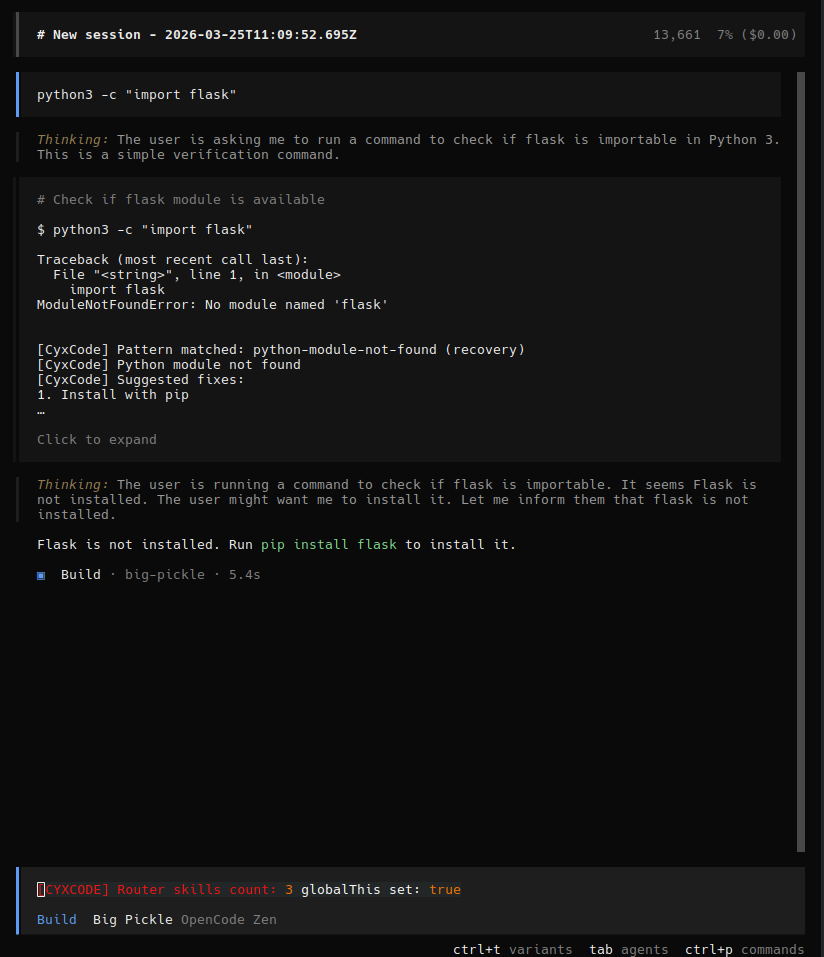
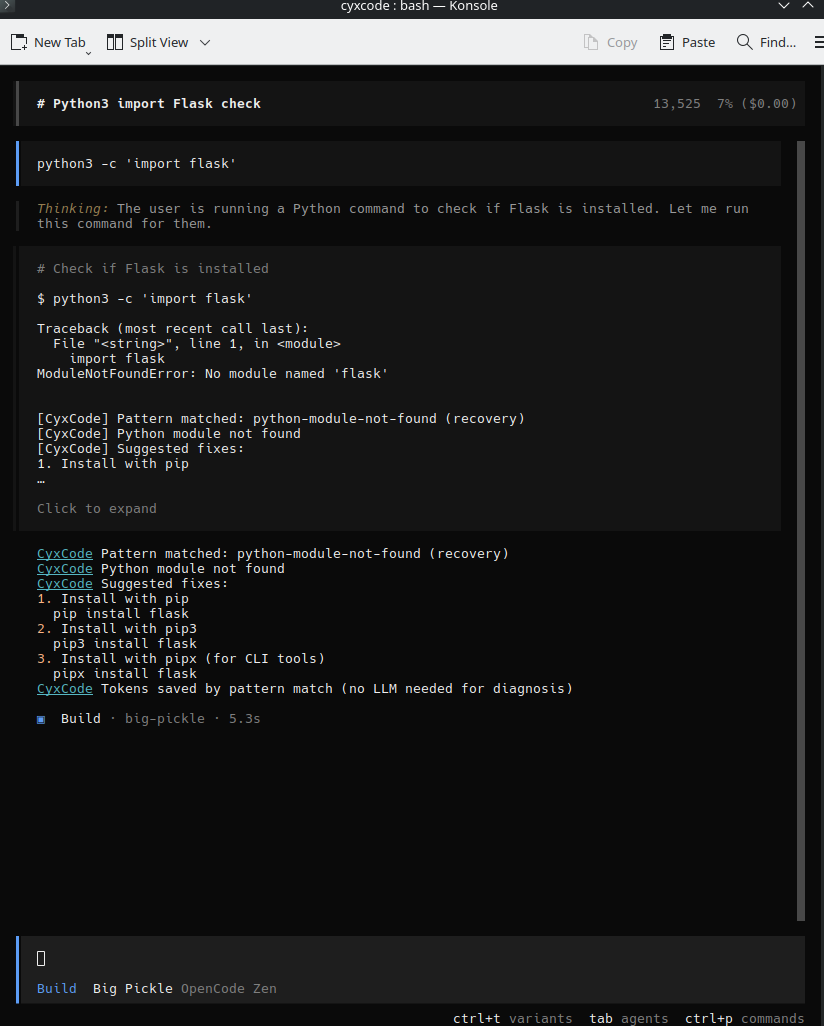
feat: short-circuit LLM when CyxCode pattern matches
- Skip LLM Call #2 when pattern matches (prompt.ts outer loop intercept)
- Add cyxcodeMatched metadata flag to bash tool results
- Add CyxCode pattern matching to shell mode (! prefix) for zero-token errors
- Add CYXCODE_SHORT_CIRCUIT flag (on by default, disable with env var)
- Add capture substitution ($1 -> actual module name) in fix commands
- Prevent double initialization of CyxCode router
- Add /diagnose command using cheap model for unmatched errors
- Add error response guidelines to AGENTS.md
- Update README with shell mode docs and screenshots

diff --git a/packages/opencode/src/session/prompt.ts b/packages/opencode/src/session/prompt.ts
@@ -38,6 +38,7 @@ import { pathToFileURL, fileURLToPath } from "url"
 import { ConfigMarkdown } from "../config/markdown"
 import { SessionSummary } from "./summary"
 import { NamedError } from "@cyxcode/util/error"
+import { getRouter, initCyxCode } from "../cyxcode"
 import { fn } from "@/util/fn"
 import { SessionProcessor } from "./processor"
 import { TaskTool } from "@/tool/task"
@@ -742,6 +743,36 @@ export namespace SessionPrompt {
           overflow: !processor.message.finish,
         })
       }
+
+      // CyxCode short-circuit: skip LLM when pattern matched
+      if (Flag.CYXCODE_SHORT_CIRCUIT && result === "continue") {
+        const parts = await MessageV2.parts(processor.message.id)
+        const cyxPart = parts.find(
+          (p) => p.type === "tool"
+              && p.state.status === "completed"
+              && p.state.metadata?.cyxcodeMatched
+        )
+        if (cyxPart && cyxPart.type === "tool" && cyxPart.state.status === "completed") {
+          const output = cyxPart.state.output
+          const idx = output.indexOf("[CyxCode]")
+          const text = idx >= 0 ? output.slice(idx) : "Error diagnosed by CyxCode."
+
+          await Session.updatePart({
+            id: PartID.ascending(),
+            messageID: processor.message.id,
+            sessionID,
+            type: "text",
+            text,
+            synthetic: true,
+            time: { start: Date.now(), end: Date.now() },
+          })
+          processor.message.finish = "stop"
+          processor.message.time.completed = Date.now()
+          await Session.updateMessage(processor.message)
+          break
+        }
+      }
+
       continue
     }
     SessionCompaction.prune({ sessionID })
@@ -1792,6 +1823,37 @@ NOTE: At any point in time through this workflow you should feel free to ask the
     if (aborted) {
       output += "\n\n" + ["<metadata>", "User aborted the command", "</metadata>"].join("\n")
     }
+
+    // CyxCode: Pattern-based error recovery for shell commands (zero AI tokens)
+    let cyxMatched = false
+    if (proc.exitCode !== 0 && proc.exitCode !== null && !aborted) {
+      initCyxCode()
+      const router = getRouter()
+      const matches = router.findMatching(output)
+      if (matches.length > 0) {
+        const best = matches[0]
+        const fixes = best.match.pattern.fixes
+        const captures = best.match.captures
+        const sub = (s: string) => {
+          let r = s
+          for (let j = 0; j < captures.length; j++) r = r.replace(new RegExp("\\$" + (j + 1), "g"), captures[j])
+          return r
+        }
+        const fixLines = fixes.map((f, i) => {
+          const cmd = f.command ? "  " + sub(f.command) : "  (manual)"
+          return (i + 1) + ". " + f.description + "\n" + cmd
+        }).join("\n")
+
+        output += "\n\n[CyxCode] Pattern matched: " + best.match.pattern.id + " (" + best.skill.name + ")\n"
+        output += "[CyxCode] " + best.match.pattern.description + "\n"
+        output += "[CyxCode] Suggested fixes:\n" + fixLines + "\n"
+        output += "[CyxCode] Tokens saved by pattern match (no LLM needed for diagnosis)\n"
+
+        cyxMatched = true
+        router.recordMatch(best.skill.name)
+      }
+    }
+
     msg.time.completed = Date.now()
     await Session.updateMessage(msg)
     if (part.state.status === "running") {
@@ -1806,6 +1868,7 @@ NOTE: At any point in time through this workflow you should feel free to ask the
         metadata: {
           output,
           description: "",
+          cyxcodeMatched: cyxMatched,
         },
         output,
       }

diff --git a/packages/opencode/src/tool/bash.ts b/packages/opencode/src/tool/bash.ts
@@ -261,6 +261,7 @@ export const BashTool = Tool.define("bash", async () => {
       }
 
       // CyxCode: Pattern-based error recovery
+      let cyxMatched = false
       if (proc.exitCode !== 0 && proc.exitCode !== null) {
         const router = getRouter()
         if (Flag.CYXCODE_DEBUG) console.error("[CYXCODE] Router skills count:", router.all().length, "globalThis set:", !!(globalThis as any).__cyxcode_router)
@@ -268,8 +269,14 @@ export const BashTool = Tool.define("bash", async () => {
         if (matches.length > 0) {
           const best = matches[0]
           const fixes = best.match.pattern.fixes
+          const captures = best.match.captures
+          const sub = (s: string) => {
+            let r = s
+            for (let j = 0; j < captures.length; j++) r = r.replace(new RegExp("\\$" + (j + 1), "g"), captures[j])
+            return r
+          }
           const fixLines = fixes.map((f, i) => {
-            const cmd = f.command ? "  " + f.command : "  (manual)"
+            const cmd = f.command ? "  " + sub(f.command) : "  (manual)"
             return (i + 1) + ". " + f.description + "\n" + cmd
           }).join("\n")
 
@@ -278,6 +285,7 @@ export const BashTool = Tool.define("bash", async () => {
           output += "[CyxCode] Suggested fixes:\n" + fixLines + "\n"
           output += "[CyxCode] Tokens saved by pattern match (no LLM needed for diagnosis)\n"
 
+          cyxMatched = true
           getRouter().recordMatch(best.skill.name)
           log.info("cyxcode pattern matched", {
             pattern: best.match.pattern.id,
@@ -295,6 +303,7 @@ export const BashTool = Tool.define("bash", async () => {
           output: output.length > MAX_METADATA_LENGTH ? output.slice(0, MAX_METADATA_LENGTH) + "\n\n..." : output,
           exit: proc.exitCode,
           description: params.description,
+          cyxcodeMatched: cyxMatched,
         },
         output,
       }

diff --git a/packages/opencode/src/cyxcode/index.ts b/packages/opencode/src/cyxcode/index.ts
@@ -26,20 +26,15 @@ import { securitySkill } from "./skills/security"
 import { devopsSkill } from "./skills/devops"
 
 export function initCyxCode() {
+  // Prevent double initialization
+  if ((globalThis as any).__cyxcode_router) return (globalThis as any).__cyxcode_router as typeof SkillRouter
+
   SkillRouter.register(recoverySkill)
   SkillRouter.register(securitySkill)
   SkillRouter.register(devopsSkill)
 
   // Store on globalThis to avoid module duplication issues with Bun conditions
   ;(globalThis as any).__cyxcode_router = SkillRouter
-
-  const stats = SkillRouter.stats()
-  const categories = Object.entries(stats.byCategory)
-    .map(([k, v]) => k + "(" + v + ")")
-    .join(", ")
-
-  console.log("[CyxCode] Initialized with " + stats.totalPatterns + " patterns across " + stats.totalSkills + " skills")
-  console.log("[CyxCode] Categories: " + categories)
 
   return SkillRouter
 }

diff --git a/packages/opencode/src/flag/flag.ts b/packages/opencode/src/flag/flag.ts
@@ -41,6 +41,7 @@ export namespace Flag {
   export const CYXCODE_SERVER_USERNAME = process.env["CYXCODE_SERVER_USERNAME"]
   export const CYXCODE_ENABLE_QUESTION_TOOL = truthy("CYXCODE_ENABLE_QUESTION_TOOL")
   export const CYXCODE_DEBUG = truthy("CYXCODE_DEBUG")
+  export const CYXCODE_SHORT_CIRCUIT = !falsy("CYXCODE_SHORT_CIRCUIT")
 
   // Experimental
   export const CYXCODE_EXPERIMENTAL = truthy("CYXCODE_EXPERIMENTAL")

diff --git a/README.md b/README.md
@@ -41,9 +41,34 @@ CyxCode:                      Every error -> Pattern check -> match? -> FREE fix
                                                            -> no match? -> LLM fallback
 ```
 
+### Two Modes: Zero Tokens or Reduced Tokens
+
+**Shell mode (`!` prefix) — Pattern first, zero tokens:**
+
+![CyxCode Shell Mode - Zero Tokens](packages/web/src/assets/lander/screenshot-cyxcode-shell.png)
+
+```
+!python3 -c 'import flask'
+  -> Command runs directly (no AI involved)
+  -> CyxCode pattern matches
+  -> Fix displayed instantly
+  -> Total tokens: ZERO
+```
+
+**Normal mode — AI decides, pattern short-circuits:**
+```
+python3 -c 'import flask'
+  -> AI thinks "let me run this" (LLM Call #1, unavoidable)
+  -> Command runs, CyxCode matches
+  -> LLM Call #2 SKIPPED (short-circuit)
+  -> Tokens saved: ~800-1600 per error
+```
+
+Use `!` prefix when you know you're running a command. The AI is bypassed entirely and CyxCode handles errors at zero cost.
+
 ### Screenshot: Pattern Matching in Action
 
-The screenshot above shows CyxCode matching a Python `ModuleNotFoundError` in real time. Notice the `[CyxCode]` block in the output — that's the pattern match providing an instant fix (`pip install flask`) before the AI even needs to analyze the error. The AI then simply relays the suggestion instead of burning tokens to diagnose it.
+The screenshot above shows CyxCode's short-circuit in action. A `python3 -c 'import flask'` command fails with `ModuleNotFoundError`. CyxCode matches the `python-module-not-found` pattern and displays the fix (`pip install flask`, `pip3 install flask`, `pipx install flask`) **directly** — the LLM is completely skipped on the return trip. Notice: no second "Thinking:" block, cost stays at **$0.00**, and the response appears instantly.
 
 ### Agents
 
@@ -135,27 +160,27 @@ This is a conservative estimate. In practice, the LLM often needs multiple turns
 
 ## How to Tell Pattern Match vs AI
 
-When a command fails in CyxCode, look for the `[CyxCode]` prefix in the output. This is how you know a pattern matched instead of the AI doing the work.
+When a command fails in CyxCode, look for the `[CyxCode]` prefix in the response. This means a pattern matched and the **LLM was completely skipped** — zero tokens burned on the return trip.
 
-### Pattern matched (free, zero tokens):
+### Pattern matched (free, LLM skipped):
 
 ```
-$ node -e "require('fakemodule')"
-Error: Cannot find module 'fakemodule'
+$ python3 -c 'import flask'
+ModuleNotFoundError: No module named 'flask'
 
-[CyxCode] Pattern matched: node-module-not-found (recovery)
-[CyxCode] Node.js module not found
+[CyxCode] Pattern matched: python-module-not-found (recovery)
+[CyxCode] Python module not found
 [CyxCode] Suggested fixes:
-  1. Install missing module with npm
-     npm install fakemodule
-  2. Install missing module with yarn
-     yarn add fakemodule
-  3. Install missing module with pnpm
-     pnpm add fakemodule
-  4. Install missing module with bun
-     bun add fakemodule
+1. Install with pip
+  pip install flask
+2. Install with pip3
+  pip3 install flask
+3. Install with pipx (for CLI tools)
+  pipx install flask
 [CyxCode] Tokens saved by pattern match (no LLM needed for diagnosis)
 ```
+
+No "Thinking:" block on the response. No AI analysis. Cost: **$0.00**.
 
 ### No pattern match (AI handles it, costs tokens):
 
@@ -166,7 +191,7 @@ Error: unexpected configuration in /etc/something.conf
 (no [CyxCode] lines — the AI analyzes this and responds normally)
 ```
 
-**Rule of thumb**: `[CyxCode]` visible = free fix. No `[CyxCode]` = AI handled it.
+**Rule of thumb**: `[CyxCode]` visible = free fix, LLM skipped. No `[CyxCode]` = AI handled it.
 
 ---
 
@@ -175,45 +200,57 @@ Error: unexpected configuration in /etc/something.conf
 Here's the full lifecycle of an error in CyxCode:
 
 ```
-1. User types a command in the TUI
+1. User types a command (e.g. python3 -c 'import flask')
                 |
                 v
-2. Bash tool executes the command
+2. LLM CALL #1 (unavoidable)
+   AI thinks: "Let me run this command for them"
+   AI calls the bash tool
+   (This is the "Thinking:" you see in the screenshot)
+                |
+                v
+3. Bash tool executes the command
    (src/tool/bash.ts)
                 |
                 v
-3. Command exits with non-zero code?
-   - No  -> return output normally
-   - Yes -> continue to step 4
+4. Command exits with non-zero code?
+   - No  -> return output normally to LLM
+   - Yes -> continue to step 5
                 |
                 v
-4. SkillRouter.findMatching(output) called
+5. CYXCODE INTERCEPTS (before AI sees the error)
+   SkillRouter.findMatching(output) called
    (src/cyxcode/router.ts)
                 |
                 v
-5. Router iterates all 3 skills:
+6. Router checks all 136 patterns across 3 skills:
    - Recovery (51 patterns: node, git, build, docker, python, system)
    - Security (39 patterns: ssl, auth, ssh, network, scan)
    - DevOps   (46 patterns: kubernetes, terraform, cicd, cloud, ansible)
                 |
                 v
-6. Each skill runs BaseSkill.match(error)
-   (src/cyxcode/base-skill.ts)
-   - Tests each pattern's regex against the error output
-   - If match: extracts captures ($1, $2, etc.)
-   - Returns PatternMatch with pattern, captures, extracted vars
+7. Pattern matched?
                 |
-                v
-7. Match found?
-   - Yes -> Append [CyxCode] lines with fix suggestions to output
-            SkillRouter.recordMatch() for stats
-   - No  -> SkillRouter.recordMiss(), output passes through unchanged
-                |
-                v
-8. Output returned to the LLM
-   - With [CyxCode]: LLM sees pre-diagnosed fix, minimal token use
-   - Without: LLM analyzes error normally (full token cost)
+       +--------+--------+
+       |                  |
+      YES                 NO
+       |                  |
+       v                  v
+8a. SHORT-CIRCUIT       8b. FALL THROUGH
+    - Append [CyxCode]     - Output passes to LLM
+      fix to output         - LLM CALL #2 happens
+    - Set cyxcodeMatched    - AI analyzes the error
+      = true                - AI burns tokens
+    - prompt.ts detects     - Normal response
+      the flag
+    - Inject fix text
+      directly as response
+    - SKIP LLM CALL #2
+    - Zero tokens burned
+    - $0.00 cost
 ```
+
+**Key insight**: The first "Thinking:" you see in the screenshot is LLM Call #1 (the AI deciding to run the command). This is unavoidable. What CyxCode eliminates is **LLM Call #2** — where the AI would normally read the error output, think about it, and generate a diagnosis. For matched patterns, that second call never happens.
 
 ### Architecture
 

diff --git a/AGENTS.md b/AGENTS.md
@@ -4,6 +4,13 @@
 - Local `main` ref may not exist; use `dev` or `origin/dev` for diffs.
 - Prefer automation: execute requested actions without confirmation unless blocked by missing info or safety/irreversibility.
 
+## Error Response Guidelines
+
+- When a bash command fails, state the problem and fix in 1-2 lines
+- Do NOT repeat the error output back to the user
+- Do NOT explain what the command was supposed to do
+- If `[CyxCode]` is in the tool output, just relay the fix — do not re-analyze the error
+
 ## Style Guide
 
 ### General Principles

diff --git a/.opencode/command/diagnose.md b/.opencode/command/diagnose.md
@@ -1,0 +1,9 @@
+---
+description: Quick error diagnosis using a lightweight model
+model: anthropic/claude-3-5-haiku-latest
+subtask: true
+---
+
+Look at the most recent bash tool output that failed.
+State the problem and fix in 2-3 lines max.
+Show the corrected command if applicable.
